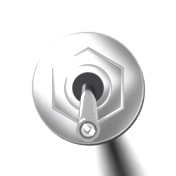
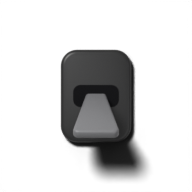
0013: Beverley's toggles become flat, fanned plastic paddles

diff --git a/art/beverley/blender/controls.py b/art/beverley/blender/controls.py
@@ -5,9 +5,9 @@
   cap with a white line. A cycled skin: `knob_pointer.png` (the line
   alone, at 12 o'clock), then `knob_body_N.png`, the rest turned evenly
   across one flute period (`FLUTE_PERIOD`);
-- the bat toggle: a chrome lever in a threaded bushing, held by a hex nut
-  on a washer. `toggle2_{0,1}.png` down and up; `toggle3_{0,1,2}.png`
-  down, middle (end-on) and up;
+- the toggle: a flat grey plastic bat, fanning out from its pivot and
+  bevelled, in a black plastic boss. `toggle2_{0,1}.png` down and up;
+  `toggle3_{0,1,2}.png` down, middle (seen end-on) and up;
 - the button: a grey key in a black bezel, with a red LED in the key.
   `button_0.png` off, `button_1.png` lit.
 
@@ -40,15 +40,15 @@ FLUTE_PERIOD = 360.0 / FLUTES
 STEPS = 6
 # Rendered sizes, px: at least twice the controls' largest use (2× scale).
 KNOB_PX = 256
-TOGGLE_PX = 176
+TOGGLE_PX = 192
 BUTTON_PX = 128
 # Scene units across each frame. The knob is 2 units across, the toggle's
-# washer 1.4, the button's bezel 1.
+# boss 1.25 tall, the button's bezel 1.
 KNOB_SPAN = 2.5
-TOGGLE_SPAN = 2.2
+TOGGLE_SPAN = 2.6
 BUTTON_SPAN = 1.3
 # How far the bat leans from upright, either way.
-TOGGLE_TILT = 30.0
+TOGGLE_TILT = 32.0
 # An LED's red, linear.
 LED_RED = (1.0, 0.03, 0.01)
 
@@ -142,32 +142,39 @@ def knob(out, look):
 # ---- bat toggle --------------------------------------------------------------
 
 
+def fan(base, tip, length, round_tip=0.08, n=8):
+    """A paddle's outline in the XY plane: `base` wide at y = 0, fanning
+    out to `tip` wide at y = `length`, its tip corners rounded."""
+    r = round_tip
+    pts = [(-base / 2, 0.0), (base / 2, 0.0)]
+    # Up the right side to where the tip's corner starts, round it, along
+    # the tip, round the left corner, and back down.
+    for cx, a0 in ((tip / 2 - r, 0.0), (-tip / 2 + r, 90.0)):
+        for i in range(n + 1):
+            a = math.radians(a0 + 90.0 * i / n)
+            pts.append((cx + r * math.cos(a), length - r + r * math.sin(a)))
+    return pts
+
+
 def build_toggle():
-    """A miniature toggle: washer, hex nut, threaded bushing and a chrome
-    bat on a pivot at the bushing's top. Returns the parts and the pivot,
-    which tilts about X."""
-    steel = chrome("nut", roughness=0.18)
-    bright = chrome("bat")
-    dark = studio.material("bushing shadow", (0.05, 0.05, 0.055), metallic=1.0, roughness=0.3)
-    parts = [
-        studio.prism("washer", studio.circle(0.7), 0.0, 0.05, steel, bevel=0.015),
-        studio.prism("nut", studio.polygon(0.52, 6, math.pi / 6), 0.05, 0.25, steel, bevel=0.04),
-        studio.prism("bushing", studio.circle(0.3), 0.25, 0.42, steel, bevel=0.03),
-        studio.prism("bore", studio.circle(0.2), 0.42, 0.43, dark),
-    ]
-    bat = studio.prism("bat", studio.circle(0.085, 32), 0.0, 1.05, bright, taper=1.6, bevel=0.0)
-    tip = bpy.data.meshes.new("tip")
-    bpy.ops.mesh.primitive_uv_sphere_add(radius=0.15, location=(0, 0, 1.05), segments=48,
-                                         ring_count=24)
-    ball = bpy.context.active_object
-    ball.name = "tip"
-    ball.data.materials.append(bright)
-    for poly in ball.data.polygons:
-        poly.use_smooth = True
-    del tip
-    lever = studio.pivot([bat, ball], "lever")
-    lever.location.z = 0.36
-    return parts + [bat, ball], lever
+    """A plastic toggle: a rounded boss with a dark throat, and a flat bat
+    that fans out from its pivot, wide across the panel and thin along
+    its throw, its edges bevelled. Returns the parts and the pivot, which
+    tilts the bat about X."""
+    boss_m = plastic("toggle boss", 0.014, roughness=0.36)
+    bat_m = plastic("toggle bat", 0.24, roughness=0.36)
+    throat_m = studio.material("throat", (0.004, 0.004, 0.005), roughness=0.8, specular=0.1)
+    boss = studio.prism("boss", studio.rounded_rect(0.95, 1.25, 0.22), 0.0, 0.16, boss_m,
+                        bevel=0.05, segments=4)
+    throat = studio.prism("throat", studio.rounded_rect(0.62, 0.3, 0.1), 0.16, 0.165, throat_m)
+    # The paddle's outline lies in XY; standing it up turns its length
+    # into height and its thickness into depth along the throw.
+    bat = studio.prism("bat", fan(0.26, 0.62, 1.0), -0.06, 0.06, bat_m, bevel=0.035,
+                       segments=4, bottom_bevel=True)
+    bat.rotation_euler.x = math.radians(90)
+    lever = studio.pivot([bat], "lever")
+    lever.location.z = 0.1
+    return [boss, throat, bat], lever
 
 
 def toggle(out, look):

diff --git a/art/beverley/faceplate.py b/art/beverley/faceplate.py
@@ -32,7 +32,7 @@ EAR = 36
 KY = 92            # control centre line
 KR = 25            # knob radius as rendered (the marker is larger)
 KNOB_BOX = 64      # knob marker: the rendered frame, drop shadow and all
-TOGGLE_BOX = 40
+TOGGLE_BOX = 46
 BUTTON_BOX = 30
 PAINT = "#232427"
 INK = "#ecebe4"     # white legends

diff --git a/tickets/closed/0013-beverley-rendered-faceplate.md b/tickets/closed/0013-beverley-rendered-faceplate.md
@@ -42,8 +42,10 @@ panel's relief rendered as maps blended over the vector print.
   - Knob: black moulded plastic with 24 flutes, a grey cap and a white
     line. Cycled across 15°, with 6 body frames and the pointer, at 256
     px (2× its 2× use).
-  - Chrome bat toggle with a hex nut and washer: two and three
-    positions, at 176 px.
+  - Toggle: a flat grey plastic bat that fans out from its pivot, with
+    bevelled edges, in a black plastic boss with a dark throat. Two and
+    three positions (the middle seen end-on), at 192 px; the markers are
+    46 px.
   - Grey key in a black bezel, with a red LED off and lit, at 128 px.
   - `--inspect` renders 45° product shots.
 - `blender/panel.py`, about 40 s at 2× (2180 × 300): the shade and sheen
@@ -61,3 +63,11 @@ panel's relief rendered as maps blended over the vector print.
 - `crates/beverley/build.rs` registers the skins and reruns on the maps.
   The art is 0.9 MB of PNGs. Snapshots re-blessed; the editor tests
   still pass unchanged.
+
+## Follow-up (2026-11-24)
+
+The first toggle was chrome: a round bat in a bushing, with a hex nut and
+washer. It was replaced by the plastic paddle above, which suits the
+panel better. Black on black didn't read from above, so the bat is grey.
+It is a little darker thrown up than down: its visible face then turns
+away from the key light.
